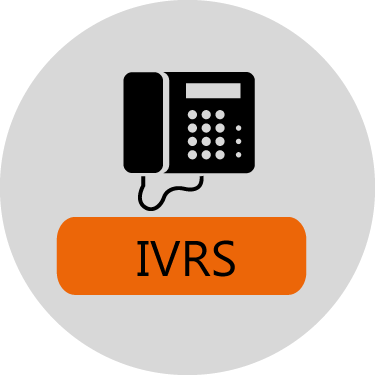
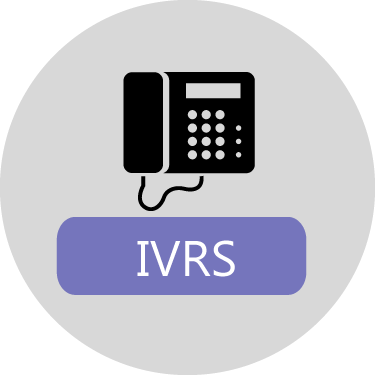
Changes to the colour Palette, fixed the placement of the reset button

Changed region(s): [[0.1467, 0.5573, 0.8213, 0.792]]

diff --git a/templates/story_dashboard.html b/templates/story_dashboard.html
@@ -34,9 +34,9 @@
     <div class="subheader-content">
     	<div class="chart-parent">
 		      <div class="top-search search-input-map">
-		        <input type="text" name="search" id="select2search" placeholder="Search" class="search-input input-text">
+		        <input type="text" name="search" id="select2search" placeholder="Search by primary school, preschool or boundary" class="search-input input-text">
 		      </div>
-		      <div class="top-reset">
+		      <div class="top-reset center-text">
 		      	 <div class="button" id="resetButton">RESET <i class="fa fa-refresh"></i></div>
 		      </div>
 	    </div>
@@ -48,6 +48,7 @@
 {% block content %}
 
 <section class="clearfix">
+	<div class="base-spacing-mid"></div>
 	<div id="primarySchoolContainer">
 		<section class="container" id="school_summary">
 			<div class="chart-parent" id="topSummary" class="js-summary-container">
@@ -69,9 +70,9 @@
 		<section class="container">
 			<ul id='improved' class="js-accordion-container">
 			  <hr/>
-				<li><a href='#' class='head js-accordion-header align-right'>IVRS  <span class="fa fa-angle-down"></span></a>
+				<li><a href='#' class='head js-accordion-header brand-purple align-right'>IVRS  <span class="fa fa-angle-down"></span></a>
 					<div class='content' id="ivrs">
-						<h2 class="heading-border brand-turquoise">IVRS Summary</h2> 
+						<h2 class="heading-border brand-purple">IVRS Summary</h2> 
 						<div class="chart-parent">
 			  	    <div id="ivrssummary" class="js-summary-container"></div>
 				  	</div><!--end inner parent-->
@@ -93,21 +94,9 @@
 					</div>
 				</li>
 				<hr/>
-				<li><a href='#' class='head js-accordion-header align-right'>SURVEYS  <span class="fa fa-angle-down"></span></a>
-					<div class='content' id="surveys">
-						<h2 class="heading-border brand-turquoise">Community Surveys</h2> 
-						<div class="chart-parent">
-			  	   	<div id="surveysummary" class="js-summary-container"></div>
-					  </div><!--end inner parent-->
-					 	<div class="chart-parent">
-			  	    <div id="surveyquestions" class="js-detail-container"></div>
-			  	  </div> <!-- End of Chart Parent -->
-					</div>
-				</li>	
-				<hr/>
-				<li><a href='#' class='head js-accordion-header align-right'>WEBSITE  <span class="fa fa-angle-down"></span></a>
+				<li><a href='#' class='head js-accordion-header brand-red align-right'>WEBSITE  <span class="fa fa-angle-down"></span></a>
 					<div class='content' id="website">
-						<h2 class="heading-border brand-turquoise">Volunteer Observations</h2> 
+						<h2 class="heading-border brand-red">Volunteer Observations</h2> 
 						<div class="chart-parent">
 			  	    <div id="websummary" class="js-summary-container"></div>				  	
 					  </div><!--end inner parent-->	
@@ -124,6 +113,19 @@
 				  	</div> <!--/chart-parent-->	
 					</div>
 				</li>
+				<hr/>
+				<li><a href='#' class='head js-accordion-header brand-blue align-right'>SURVEYS  <span class="fa fa-angle-down"></span></a>
+					<div class='content' id="surveys">
+						<h2 class="heading-border brand-blue">Community Surveys</h2> 
+						<div class="chart-parent">
+			  	   	<div id="surveysummary" class="js-summary-container"></div>
+					  </div><!--end inner parent-->
+					 	<div class="chart-parent">
+			  	    <div id="surveyquestions" class="js-detail-container"></div>
+			  	  </div> <!-- End of Chart Parent -->
+					</div>
+				</li>	
+				<hr/>
 				<!--
 				<hr/>
 				<li><a href='#' class='head js-accordion-header align-right'>COMPARISON  <span class="fa fa-angle-down"></span></a>
@@ -159,9 +161,9 @@
 		<section class="container">
 			<ul id='improved' class="js-accordion-container">
 			  <hr/>
-				<li><a href='#' class='head js-accordion-header align-right'>IVRS  <span class="fa fa-angle-down"></span></a>
+				<li><a href='#' class='head js-accordion-header brand-purple align-right'>IVRS  <span class="fa fa-angle-down"></span></a>
 					<div class='content' id="ivrs">
-						<h2 class="heading-border brand-turquoise">IVRS Summary</h2> 
+						<h2 class="heading-border brand-purple">IVRS Summary</h2> 
 						<div class="chart-parent">
 			  	    <div id="ivrssummary_ang" class="js-summary-container"></div>
 				  	</div><!--end inner parent-->
@@ -176,16 +178,16 @@
 					    </div> <!-- /chart-half-item -->
 					  </div> <!--/chart-parent-->
 					  <hr/>
-					  <div class="bar-label">How would you categorize schools in this boundary?</div>
+					  <div class="bar-label">How would you categorize preschools in this boundary?</div>
 					  <div class="chart-parent">
 				  		<div id="ivrsgrades_ang" class="js-detail-container"></div>
 				  	</div> <!--/chart-parent-->
 					</div>
 				</li>
 				<hr/>
-				<li><a href='#' class='head js-accordion-header align-right'>WEBSITE  <span class="fa fa-angle-down"></span></a>
+				<li><a href='#' class='head js-accordion-header brand-red align-right'>WEBSITE  <span class="fa fa-angle-down"></span></a>
 					<div class='content' id="website">
-						<h2 class="heading-border brand-turquoise">Volunteer Observations</h2> 
+						<h2 class="heading-border brand-red">Volunteer Observations</h2> 
 						<div class="chart-parent">
 			  	    <div id="websummary_ang" class="js-summary-container"></div>				  	
 					  </div><!--end inner parent-->	

diff --git a/templates/frontend_templates/story_dashboard.html b/templates/frontend_templates/story_dashboard.html
@@ -1,13 +1,13 @@
 {% verbatim %}
 
   <script type="text/html" id="tpl-topSummary">
-    <h2 class="heading-border brand-purple">{{school_type}} - Summary</h2> 
+    <h2 class="heading-border grey-steel">{{school_type}} - Summary</h2> 
 
     <div class="container js-entity-data">
           <div class="heading-tiny-uppercase align-left">
             {{ searchEntity.type}}
           </div>
-          <h2 class="heading-secondary brand-blue align-left">
+          <h2 class="heading-secondary black align-left">
             {{ searchEntity.name }}
           </h2>
     <hr/>
@@ -17,22 +17,22 @@
       <div class="chart-parent">
         <div class="chart-half-item js-entity-data">
           <div class="heading-tiny-uppercase align-left" >Stories</div>
-          <h2 class="heading-secondary brand-blue align-left">{{ total.stories }}</h2>
+          <h2 class="heading-secondary black align-left">{{ total.stories }}</h2>
         </div>
         <div class="chart-half-item js-hide-school">
           <div class="heading-tiny-uppercase align-left" >{{school_type}}</div>
-          <h2 class="heading-secondary brand-blue align-left">{{ total.schools }}</h2> 
+          <h2 class="heading-secondary black align-left">{{ total.schools }}</h2> 
         </div>
       </div>
 
       <div class="chart-parent">  
         <div class="chart-half-item js-entity-data">
           <div class="heading-tiny-uppercase align-left" >Academic Year(s)</div>
-          <h2 class="heading-secondary brand-blue align-left">2010-2014</h2> 
+          <h2 class="heading-secondary black align-left">2010-2014</h2> 
         </div>     
         <div class="chart-half-item js-hide-school">
           <div class="heading-tiny-uppercase align-left" >{{school_type}} with Stories</div>
-          <h2 class="heading-secondary brand-blue align-left">{{ total.schools_with_stories }}</h2> 
+          <h2 class="heading-secondary black align-left">{{ total.schools_with_stories }}</h2> 
         </div>
         
       </div><!--end inner parent-->
@@ -42,17 +42,17 @@
       <div class="chart-parent">
         <div class="chart-athird-item">
           <img class="img-symbol" src="/static/images/story/ivrs.png" alt="IVRS">
-          <h2 class="heading-secondary brand-blue">{{ ivrs.stories }}</h2> 
+          <h2 class="heading-secondary black">{{ ivrs.stories }}</h2> 
+        </div>
+        <div class="chart-athird-item">
+          <img class="img-symbol" src="/static/images/story/website.png" alt="Website">
+          <h2 class="heading-secondary black">{{ web.verified_stories }}</h2> 
         </div>
         <div class="chart-athird-item">
           {% if school_type == "Schools" %}
           <img class="img-symbol" src="/static/images/story/survey.png" alt="Surveys">
-          <h2 class="heading-secondary brand-blue">{{ community.stories }}</h2> 
+          <h2 class="heading-secondary black">{{ community.stories }}</h2> 
           {%endif%}
-        </div>
-        <div class="chart-athird-item">
-          <img class="img-symbol" src="/static/images/story/website.png" alt="Website">
-          <h2 class="heading-secondary brand-blue">{{ web.verified_stories }}</h2> 
         </div>
       </div>
     </div>
@@ -165,7 +165,7 @@
     {% for s in summary %}
       <div class="chart-quarter-item">
         <div class="heading-tiny-uppercase align-left" >{{ s.label }}</div>
-        <h2 class="heading-secondary brand-blue align-left">{{ s.count }}</h2> 
+        <h2 class="heading-secondary black align-left">{{ s.count }}</h2> 
       </div>
     {% endfor %}
   </script>

diff --git a/assets/static/js/story/init.js b/assets/static/js/story/init.js
@@ -297,7 +297,10 @@
         var data_respondent = {
             labels: labels,
             series: [
-                values
+                { 
+                    className: 'ct-series-g',
+                    data: meta_values,
+                }
             ]
         };
         var suffix = '';
@@ -322,7 +325,10 @@
         var data_ivrs = {
             labels: labels,
             series: [
-                meta_values
+                { 
+                    className: 'ct-series-e',
+                    data: meta_values,
+                }
             ]
         };
         var suffix = '';
@@ -362,7 +368,7 @@
         var $chart_element = Chartist.Bar(elementId, data, options, responsiveOptions).on('draw', function(data) {
             if (data.type === 'bar') {
                 data.element.attr({
-                    style: 'stroke-width: 15px'
+                    style: 'stroke-width: 15px;'
                 });
             }
             if (data.type === 'label' && data.axis === 'x') {

diff --git a/assets/static/css/style.css b/assets/static/css/style.css
@@ -3733,9 +3733,9 @@ code {
 .ct-chart .ct-series.ct-series-f .ct-slice:not(.ct-donut), .ct-chart .ct-series.ct-series-f .ct-area {
   fill: #e17e5b; }
 .ct-chart .ct-series.ct-series-g .ct-point, .ct-chart .ct-series.ct-series-g .ct-line, .ct-chart .ct-series.ct-series-g .ct-bar, .ct-chart .ct-series.ct-series-g .ct-slice.ct-donut {
-  stroke: #a31460; }
+  stroke: #898989; }
 .ct-chart .ct-series.ct-series-g .ct-slice:not(.ct-donut), .ct-chart .ct-series.ct-series-g .ct-area {
-  fill: #a31460; }
+  fill: #898989; }
 .ct-chart .ct-series.ct-series-h .ct-point, .ct-chart .ct-series.ct-series-h .ct-line, .ct-chart .ct-series.ct-series-h .ct-bar, .ct-chart .ct-series.ct-series-h .ct-slice.ct-donut {
   stroke: #ffeda0; }
 .ct-chart .ct-series.ct-series-h .ct-slice:not(.ct-donut), .ct-chart .ct-series.ct-series-h .ct-area {
@@ -4206,6 +4206,9 @@ code {
 
 .chartist-container {
   position: relative; }
+
+.subheader-wrapper {
+  text-transform: none; }
 
 /* CSS for accordian panels with accordian.js*/
 .head {

diff --git a/assets/static/sass/partials/_story.scss b/assets/static/sass/partials/_story.scss
@@ -98,6 +98,10 @@
 	border-top-color:$black;
 }
 
-.chartist-container{
+.chartist-container {
 	position:relative;
+}
+
+.subheader-wrapper { 
+	text-transform: none; 
 }

diff --git a/assets/static/sass/partials/lib/_chartist-settings.scss b/assets/static/sass/partials/lib/_chartist-settings.scss
@@ -72,7 +72,7 @@ $ct-series-colors: (
   $brand-turquoise,
   $brand-purple,
   $red-mild,
-  $maroon,
+  $grey-steel,
   $yellow-mild,
   $green-pista,
   $blue-ink,
